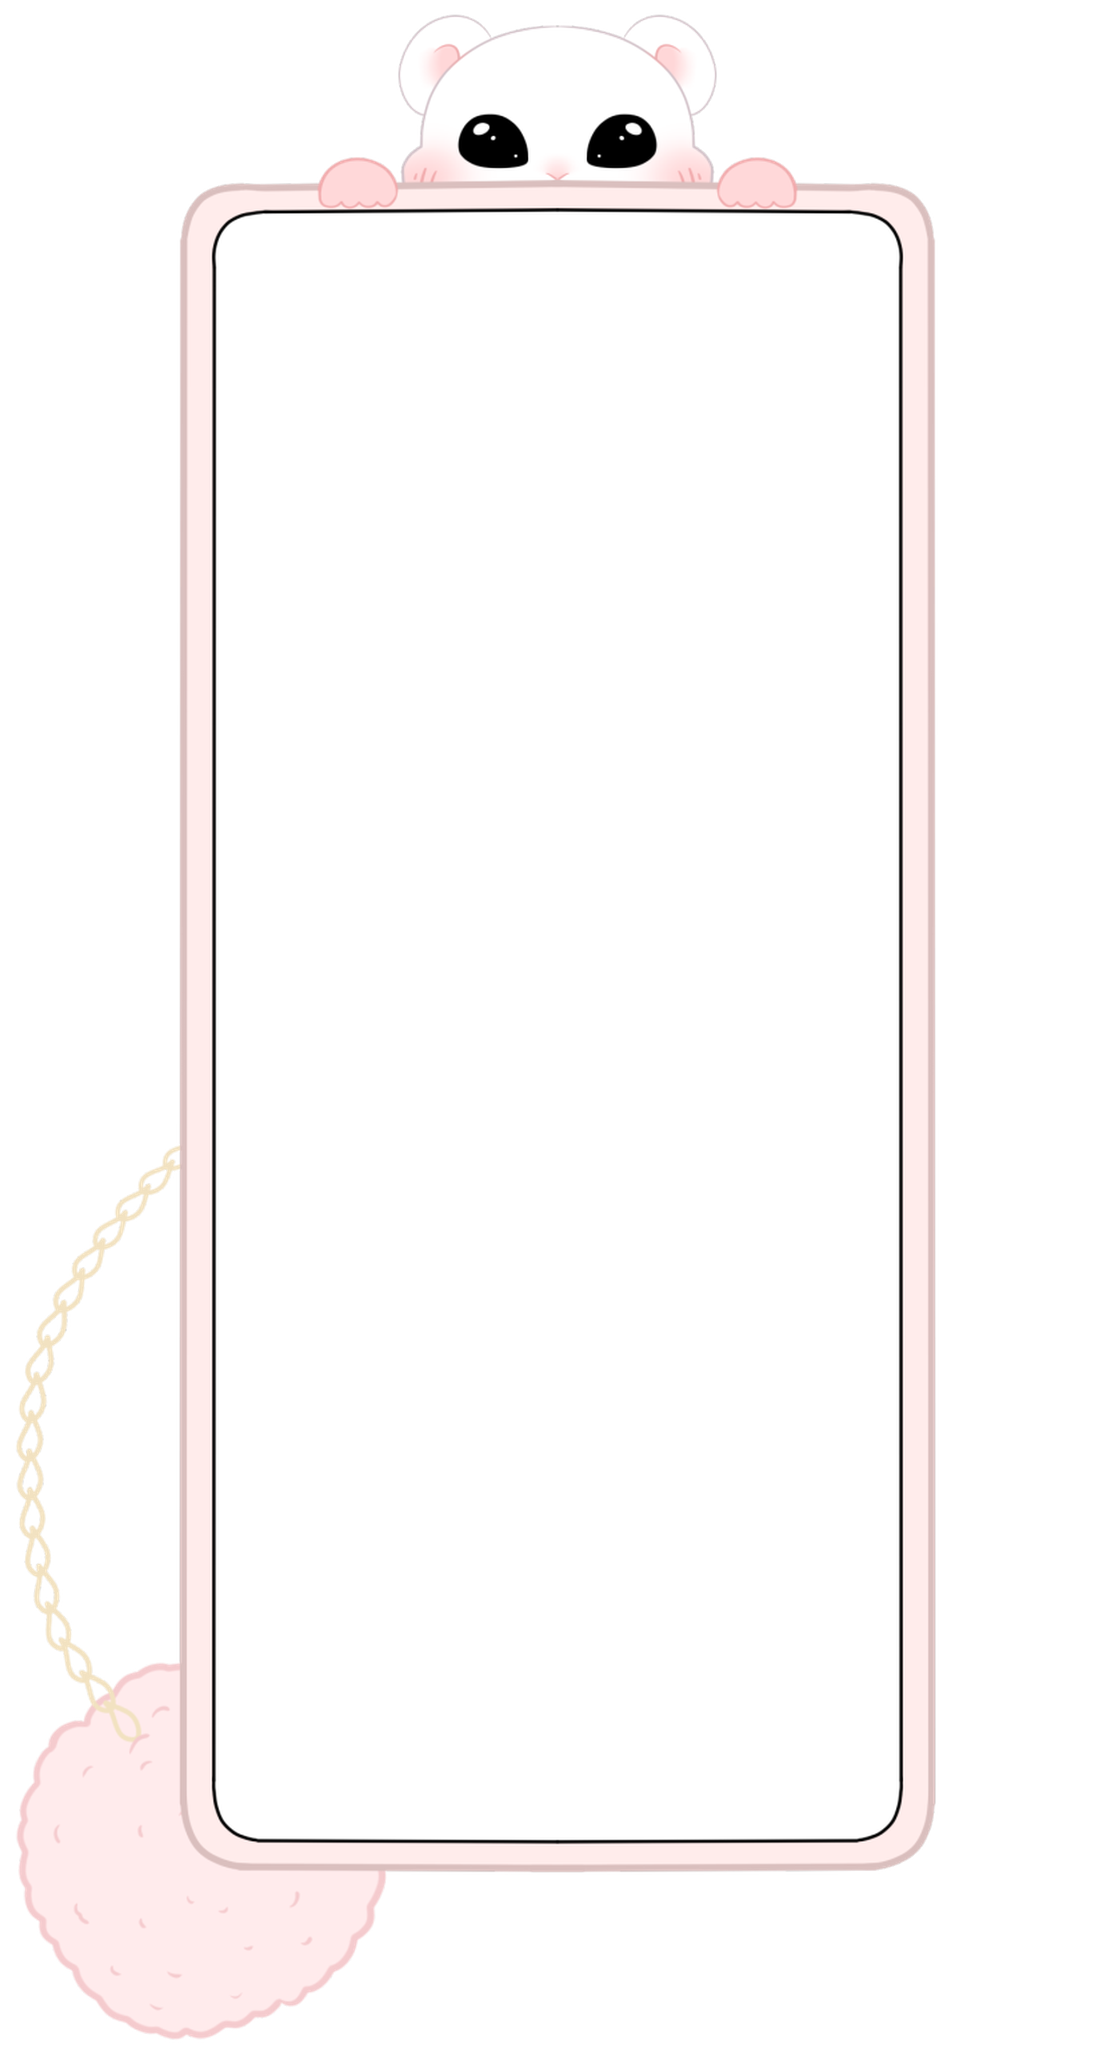
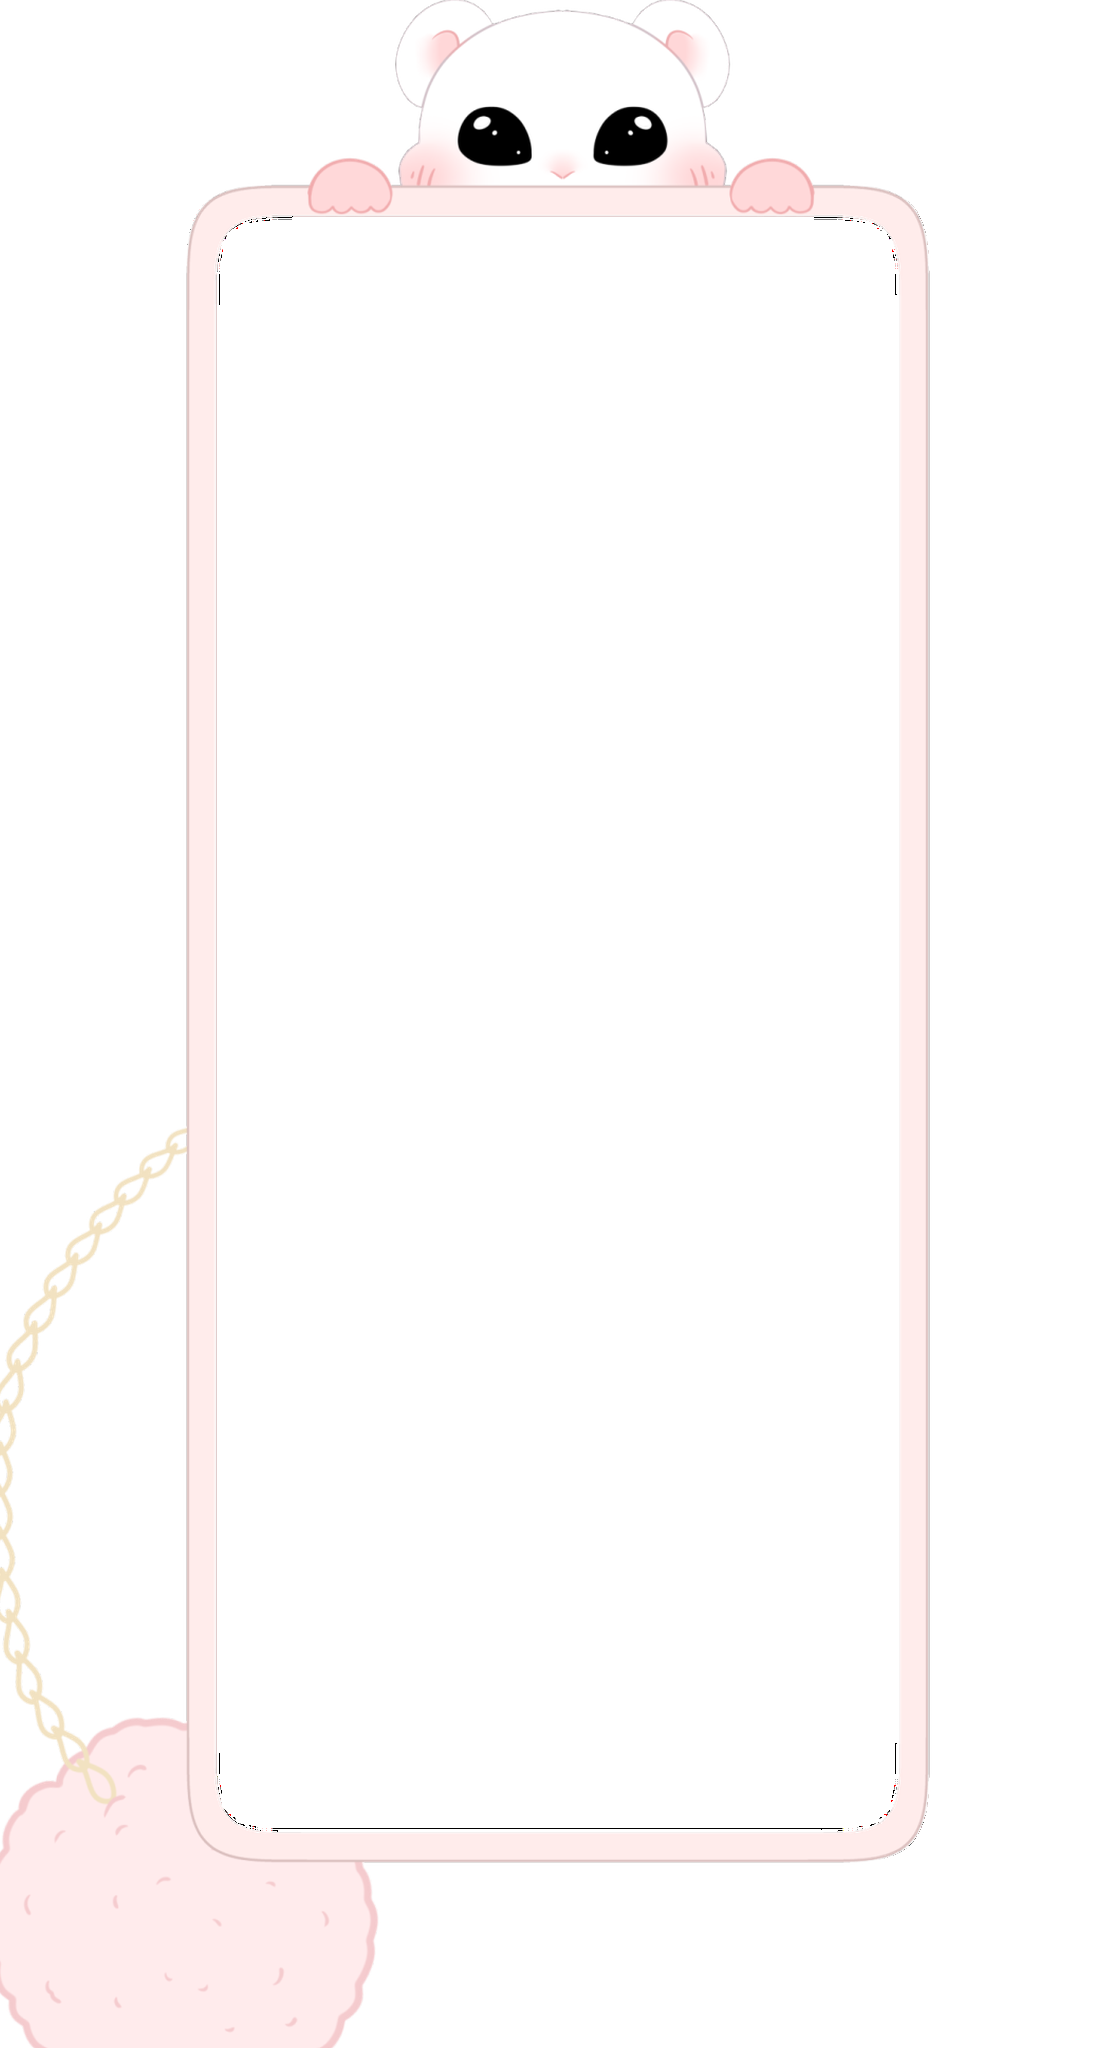
feat(cases): add twenty phone cases and refresh Silkie and Caduceus
Ten plain colour cases, nine gradient cases named for Arcadion bosses, and
the Magical Girl art case. The picker now lists plain colours, then
gradients, then art cases. Silkie and Caduceus ship new artwork.

Most deliveries arrived off template, so each was measured against the
silhouette and glass superellipses first. Silkie and Magical Girl had the
body drawn small and offset, and were refit onto the body rect. Grey,
Lavender and Teal had a band painted a few pixels thin, so their shell edge
was grown out to the silhouette instead (scaling those up pushes the inner
edge past the glass and opens a worse gap). Every case now measures a zero
band gap and sits under the size budget.

Magical Girl was delivered at 419x768, well under the spec, so it will read
soft at the largest phone size and its star charm lost its lower edge to the
refit. Worth a re-export on the template.

Plain colour names are translated in all nine locales, matching the accent
colour precedent. Boss names and Magical Girl stay English, matching Silkie.

diff --git a/src/Aetherphone/Core/Localization/L.cs b/src/Aetherphone/Core/Localization/L.cs
@@ -3408,10 +3408,30 @@ internal static class L
         public static readonly LocString AccentPink = new("catalog.accent.pink", "Pink");
         public static readonly LocString AccentAmber = new("catalog.accent.amber", "Amber");
         public static readonly LocString CaseTitanium = new("catalog.case.titanium", "Titanium");
+        public static readonly LocString CaseBlack = new("catalog.case.black", "Black");
+        public static readonly LocString CaseBlue = new("catalog.case.blue", "Blue");
+        public static readonly LocString CaseGreen = new("catalog.case.green", "Green");
+        public static readonly LocString CaseGrey = new("catalog.case.grey", "Grey");
+        public static readonly LocString CaseLavender = new("catalog.case.lavender", "Lavender");
+        public static readonly LocString CasePink = new("catalog.case.pink", "Pink");
+        public static readonly LocString CasePurple = new("catalog.case.purple", "Purple");
+        public static readonly LocString CaseTeal = new("catalog.case.teal", "Teal");
+        public static readonly LocString CaseWhite = new("catalog.case.white", "White");
+        public static readonly LocString CaseYellow = new("catalog.case.yellow", "Yellow");
+        public static readonly LocString CaseBlackCat = new("catalog.case.blackcatgradient", "Black Cat");
+        public static readonly LocString CaseBruteBomber = new("catalog.case.brutebombergradient", "Brute Bomber");
+        public static readonly LocString CaseDancingGreen = new("catalog.case.dancinggreengradient", "Dancing Green");
+        public static readonly LocString CaseHoneyBLovely = new("catalog.case.honeyblovelygradient", "Honey B. Lovely");
+        public static readonly LocString CaseHowlingBlade = new("catalog.case.howlingbladegradient", "Howling Blade");
+        public static readonly LocString CaseSugarRiot = new("catalog.case.sugarriotgradient", "Sugar Riot");
+        public static readonly LocString CaseTheTyrant = new("catalog.case.thetyrantgradient", "The Tyrant");
+        public static readonly LocString CaseVampFatale = new("catalog.case.vampfatalegradient", "Vamp Fatale");
+        public static readonly LocString CaseWickedThunder = new("catalog.case.wickedthundergradient", "Wicked Thunder");
         public static readonly LocString CaseSilkie = new("catalog.case.silkie", "Silkie");
         public static readonly LocString CaseFatCat = new("catalog.case.fatcat", "Fat Cat");
         public static readonly LocString CaseCosmicEx = new("catalog.case.cosmicex", "Cosmic EX");
         public static readonly LocString CaseCaduceus = new("catalog.case.caduceus", "Caduceus");
+        public static readonly LocString CaseMagicalGirl = new("catalog.case.magicalgirl", "Magical Girl");
         public static readonly LocString RingtoneSilent = new("catalog.ringtone.silent", "Silent");
         public static readonly LocString RadioLofi = new("catalog.radio.lofi", "Lofi");
         public static readonly LocString RadioChillout = new("catalog.radio.chillout", "Chillout");

diff --git a/src/Aetherphone/Core/Theme/ThemeCatalog.cs b/src/Aetherphone/Core/Theme/ThemeCatalog.cs
@@ -16,10 +16,30 @@ internal static class ThemeCatalog
     private static readonly PhoneCase[] BuiltInCases =
     {
         PhoneCase.Color(DefaultCaseName, new Vector4(0.145f, 0.145f, 0.170f, 1f)),
-        PhoneCase.Art("Silkie", new Vector4(1.000f, 0.922f, 0.918f, 1f)),
+        PhoneCase.Art("Black", new Vector4(0.158f, 0.158f, 0.158f, 1f)),
+        PhoneCase.Art("Blue", new Vector4(0.330f, 0.551f, 0.962f, 1f)),
+        PhoneCase.Art("Green", new Vector4(0.254f, 0.766f, 0.460f, 1f)),
+        PhoneCase.Art("Grey", new Vector4(0.215f, 0.215f, 0.215f, 1f)),
+        PhoneCase.Art("Lavender", new Vector4(0.287f, 0.261f, 0.346f, 1f)),
+        PhoneCase.Art("Pink", new Vector4(0.930f, 0.414f, 0.646f, 1f)),
+        PhoneCase.Art("Purple", new Vector4(0.551f, 0.460f, 0.930f, 1f)),
+        PhoneCase.Art("Teal", new Vector4(0.207f, 0.387f, 0.429f, 1f)),
+        PhoneCase.Art("White", new Vector4(0.892f, 0.892f, 0.892f, 1f)),
+        PhoneCase.Art("Yellow", new Vector4(0.941f, 0.646f, 0.254f, 1f)),
+        PhoneCase.Art("BlackCatGradient", new Vector4(0.379f, 0.254f, 0.325f, 1f)),
+        PhoneCase.Art("BruteBomberGradient", new Vector4(0.522f, 0.210f, 0.175f, 1f)),
+        PhoneCase.Art("DancingGreenGradient", new Vector4(0.771f, 0.784f, 0.677f, 1f)),
+        PhoneCase.Art("HoneyBLovelyGradient", new Vector4(0.810f, 0.704f, 0.551f, 1f)),
+        PhoneCase.Art("HowlingBladeGradient", new Vector4(0.500f, 0.512f, 0.443f, 1f)),
+        PhoneCase.Art("SugarRiotGradient", new Vector4(0.261f, 0.447f, 0.555f, 1f)),
+        PhoneCase.Art("TheTyrantGradient", new Vector4(0.580f, 0.409f, 0.458f, 1f)),
+        PhoneCase.Art("VampFataleGradient", new Vector4(0.480f, 0.135f, 0.225f, 1f)),
+        PhoneCase.Art("WickedThunderGradient", new Vector4(0.659f, 0.568f, 0.716f, 1f)),
+        PhoneCase.Art("Silkie", new Vector4(1.000f, 0.918f, 0.914f, 1f)),
         PhoneCase.Art("FatCat", new Vector4(0.753f, 0.708f, 0.648f, 1f)),
         PhoneCase.Art("CosmicEX", new Vector4(0.160f, 0.160f, 0.197f, 1f)),
-        PhoneCase.Art("Caduceus", new Vector4(0.427f, 0.411f, 0.217f, 1f)),
+        PhoneCase.Art("Caduceus", new Vector4(0.414f, 0.398f, 0.209f, 1f)),
+        PhoneCase.Art("MagicalGirl", new Vector4(0.898f, 0.571f, 0.709f, 1f)),
     };
 
     public static IReadOnlyList<PhoneCase> Cases { get; } = BuiltInCases;

diff --git a/src/Aetherphone/Core/Localization/CatalogLabels.cs b/src/Aetherphone/Core/Localization/CatalogLabels.cs
@@ -27,10 +27,30 @@ internal static class CatalogLabels
         identifier switch
         {
             "Titanium" => Loc.T(L.Catalogs.CaseTitanium),
+            "Black" => Loc.T(L.Catalogs.CaseBlack),
+            "Blue" => Loc.T(L.Catalogs.CaseBlue),
+            "Green" => Loc.T(L.Catalogs.CaseGreen),
+            "Grey" => Loc.T(L.Catalogs.CaseGrey),
+            "Lavender" => Loc.T(L.Catalogs.CaseLavender),
+            "Pink" => Loc.T(L.Catalogs.CasePink),
+            "Purple" => Loc.T(L.Catalogs.CasePurple),
+            "Teal" => Loc.T(L.Catalogs.CaseTeal),
+            "White" => Loc.T(L.Catalogs.CaseWhite),
+            "Yellow" => Loc.T(L.Catalogs.CaseYellow),
+            "BlackCatGradient" => Loc.T(L.Catalogs.CaseBlackCat),
+            "BruteBomberGradient" => Loc.T(L.Catalogs.CaseBruteBomber),
+            "DancingGreenGradient" => Loc.T(L.Catalogs.CaseDancingGreen),
+            "HoneyBLovelyGradient" => Loc.T(L.Catalogs.CaseHoneyBLovely),
+            "HowlingBladeGradient" => Loc.T(L.Catalogs.CaseHowlingBlade),
+            "SugarRiotGradient" => Loc.T(L.Catalogs.CaseSugarRiot),
+            "TheTyrantGradient" => Loc.T(L.Catalogs.CaseTheTyrant),
+            "VampFataleGradient" => Loc.T(L.Catalogs.CaseVampFatale),
+            "WickedThunderGradient" => Loc.T(L.Catalogs.CaseWickedThunder),
             "Silkie" => Loc.T(L.Catalogs.CaseSilkie),
             "FatCat" => Loc.T(L.Catalogs.CaseFatCat),
             "CosmicEX" => Loc.T(L.Catalogs.CaseCosmicEx),
             "Caduceus" => Loc.T(L.Catalogs.CaseCaduceus),
+            "MagicalGirl" => Loc.T(L.Catalogs.CaseMagicalGirl),
             _ => identifier,
         };
 
